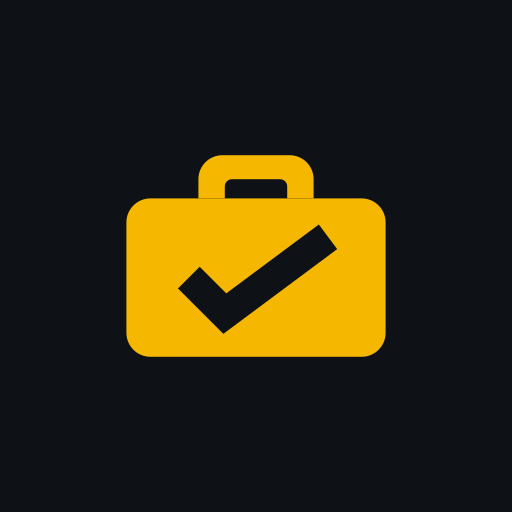
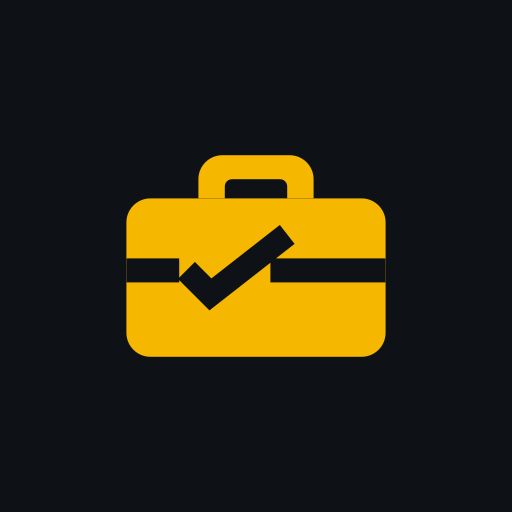
fix(brand): variant 3 is the mark everywhere

Changed region(s): [[0.2188, 0.4375, 0.7812, 0.6562]]

diff --git a/frontend/src/components/BrandMark.tsx b/frontend/src/components/BrandMark.tsx
@@ -25,7 +25,7 @@ const CLOSURE_COMPACT = 'M18 36.5l7.5 7.5L47 28'
 export default function BrandMark({
   size = 36,
   tone = 'chip',
-  compact = false,
+  compact,
   className,
   title = 'Lernvo',
 }: {
@@ -36,7 +36,9 @@ export default function BrandMark({
   title?: string
 }) {
   const maskId = useId()
-  const useCompact = compact || tone === 'chip'
+  // La variante 3 (fermoir-coche) est la marque. La variante simplifiée n'intervient que
+  // lorsque la ligne de fermeture ne peut plus se lire — sous ~22 px — ou si on la force.
+  const useCompact = compact ?? size < 22
   const fill = tone === 'navy' ? NAVY : tone === 'white' ? '#FFFFFF' : AMBER
 
   const briefcase = (
